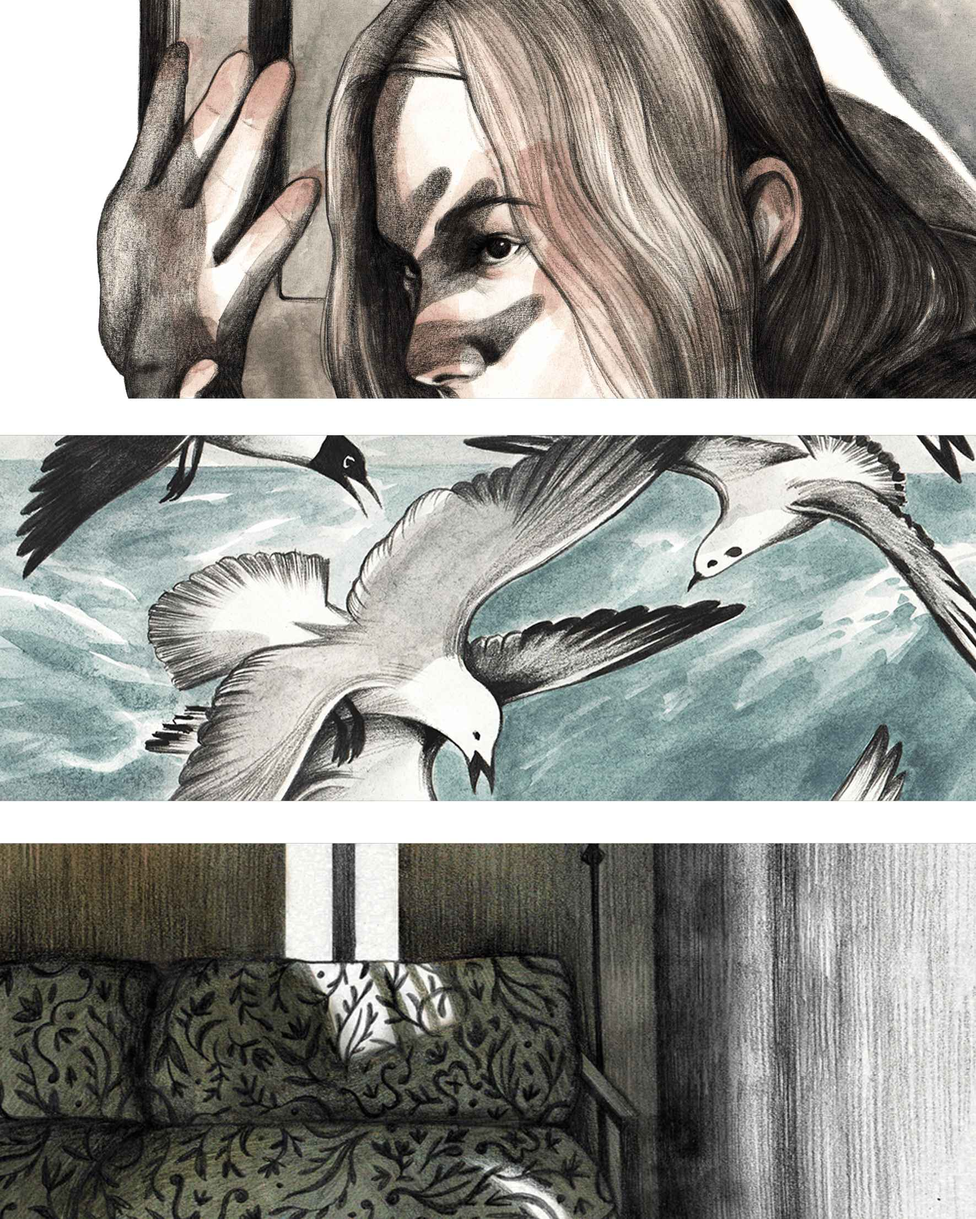
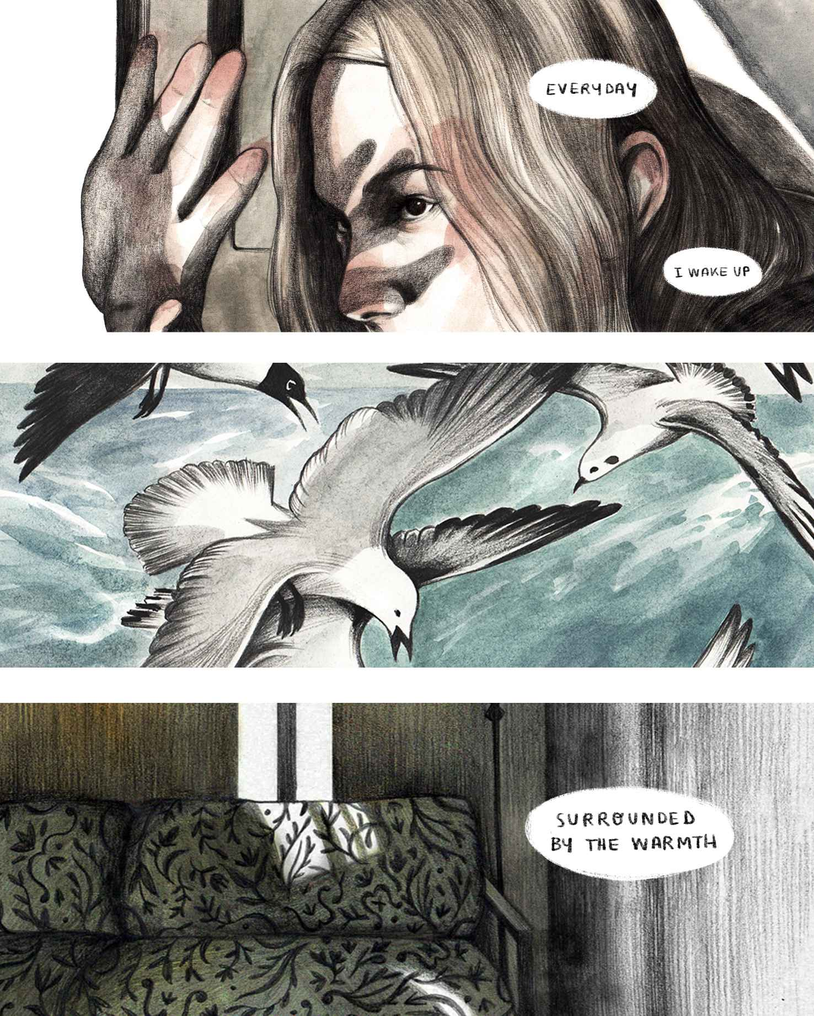
change assets and move to 2 layers of jpgs

diff --git a/stylesheet.css b/stylesheet.css
@@ -257,18 +257,14 @@ body{
   background-image: url("assets/1a.jpg");
 }
 
-.imageWordsLeft{
-  background-image: url("assets/1b.png");
-}
-
 .imageDogLeftInactive{
-  background-image: url("assets/1c.png");
+  background-image: url("assets/1b.jpg");
   opacity: 0;
   transition: opacity 0.5s;
 }
 
 .imageDogLeft{
-  background-image: url("assets/1c.png");
+  background-image: url("assets/1b.jpg");
   opacity: 1;
   transition: opacity 0.5s;
 }
@@ -277,18 +273,14 @@ body{
   background-image: url("assets/2a.jpg");
 }
 
-.imageWordsCenter{
-  background-image: url("assets/2b.png");
-}
-
 .imageDogCenterInactive{
-  background-image: url("assets/2c.png");
+  background-image: url("assets/2b.jpg");
   opacity: 0;
   transition: opacity 0.5s;
 }
 
 .imageDogCenter{
-  background-image: url("assets/2c.png");
+  background-image: url("assets/2b.jpg");
   opacity: 1;
   transition: opacity 0.5s;
 }
@@ -297,19 +289,16 @@ body{
   background-image: url("assets/3a.jpg");
 }
 
-.imageWordsRight{
-  background-image: url("assets/3b.png");
-}
 
 .imageDogRightInactive{
-  background-image: url("assets/3c.png");
+  background-image: url("assets/3b.jpg");
   opacity: 0;
   transition: opacity 0.5s;
 }
 
 
 .imageDogRight{
-  background-image: url("assets/3c.png");
+  background-image: url("assets/3b.jpg");
   opacity: 1;
   transition: opacity 0.5s;
 }

diff --git a/index.html b/index.html
@@ -112,24 +112,24 @@
                 <div class="heroContainer" >
 
                             <div class="imageColumn heroImage imageLeft" >
-                              <div class="heroImage imageWordsLeft" id="wordsLeft">
+
                                 <div class="heroImage imageDogLeftInactive" id="dogLeft">
                                 </div>
-                              </div>
+
                             </div>
 
                             <div class="imageColumn heroImage imageCenter" >
-                              <div class="heroImage imageWordsCenter" id="wordsCenter">
+
                                 <div class="heroImage imageDogCenterInactive" id="dogCenter">
                                 </div>
-                              </div>
+
                             </div>
 
                             <div class="imageColumn heroImage imageRight" >
-                              <div class="heroImage imageWordsRight" id="wordsRight">
+
                                 <div class="heroImage imageDogRightInactive" id="dogRight">
                                 </div>
-                              </div>
+                          
                             </div>
 
                     </div>

diff --git a/index.js b/index.js
@@ -3,9 +3,6 @@
     document.getElementById("dogLeft").classList.toggle("imageDogLeft")
     document.getElementById("dogCenter").classList.toggle("imageDogCenter")
     document.getElementById("dogRight").classList.toggle("imageDogRight")
-    document.getElementById("wordsLeft").classList.toggle("imageWordsLeft")
-    document.getElementById("wordsCenter").classList.toggle("imageWordsCenter")
-    document.getElementById("wordsRight").classList.toggle("imageWordsRight")
     document.getElementById("dogButton").classList.toggle("dogButtonSelected")
 
     var x = document.getElementById("instaButton");
